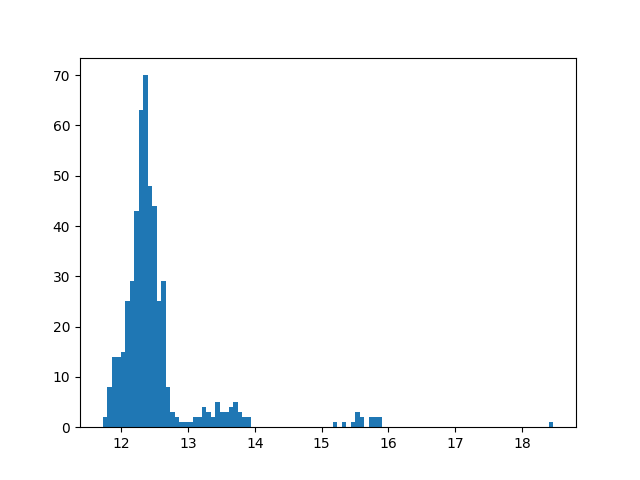
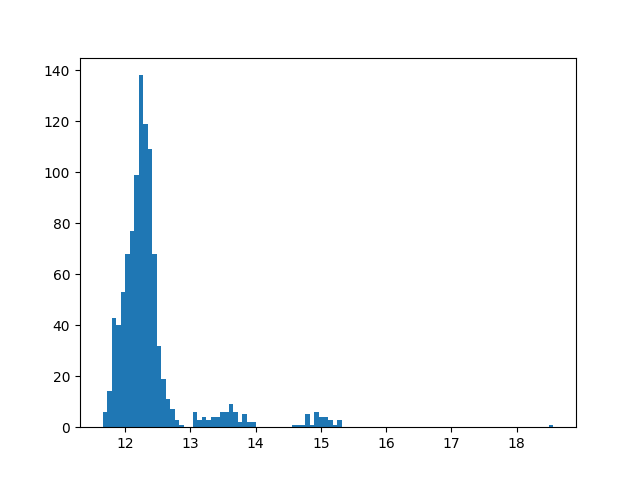
millisecond differences

diff --git a/model/model.py b/model/model.py
@@ -70,19 +70,15 @@ def getBoxesFromOutput(values) -> List[Match]:
     NUM_COLORS = 8
     NUM_TAGS = 8
 
-    confience_values = values[:, 8]
-    indices = np.where(confience_values > BBOX_CONFIDENCE_THRESHOLD)
+    # confience_values = values[:, 8]
+    indices = np.where(values[:, 8] > BBOX_CONFIDENCE_THRESHOLD)
     values = values[indices]
     
     # print("Max confidence: ", np.max(confience_values))
     curr_grid_strides = grid_strides[indices]
 
-    for i in range(len(values)):
-        element = values[i]
-
-        grid0 = curr_grid_strides[i].grid0
-        grid1 = curr_grid_strides[i].grid1
-        stride = curr_grid_strides[i].stride
+    for element, grid_stride in zip(values, curr_grid_strides):
+        grid0, grid1, stride = grid_stride.grid0, grid_stride.grid1, grid_stride.stride
 
         x_1 = (element[0] + grid0) * stride
         y_1 = (element[1] + grid1) * stride
@@ -194,7 +190,7 @@ def timing(img: MatLike):
     # Give 1 start for processing
     getBoxesForImg(img)
 
-    ITERATIONS = 500
+    ITERATIONS = 1000
     times = []
     from tqdm import tqdm
     
